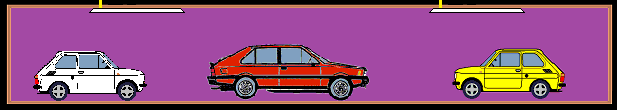
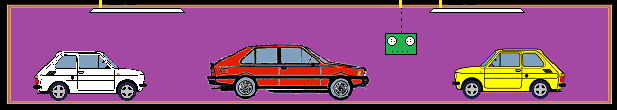
Level 2 - more connections

diff --git a/other/electrician/files/creators.js b/other/electrician/files/creators.js
@@ -90,13 +90,14 @@ class Creator {
         .build());
 
        const garageBuilder = new FloorBuilder();
-       building.floors.push(garageBuilder.withName('garage').withCeilingConnector(5).withCeilingConnector(22)
+       building.floors.push(garageBuilder.withName('garage').withCeilingConnector(5).withCeilingConnector(20)
+        .withCeilingConnector(22)
         .build());
 
        building.floors.forEach(floor => floor.init(physics));
        building.floors.forEach(floor => floor.calculateFloorLevel());
 
-       const connectionPointsCounts = [4, 8, 2];
+       const connectionPointsCounts = [4, 8, 3];
        building.wires = building.floors.map((floor, index) => {
            const aboveFloor = building.floors[index] || null;
            const belowFloor = building.floors[index - 1] || null;
